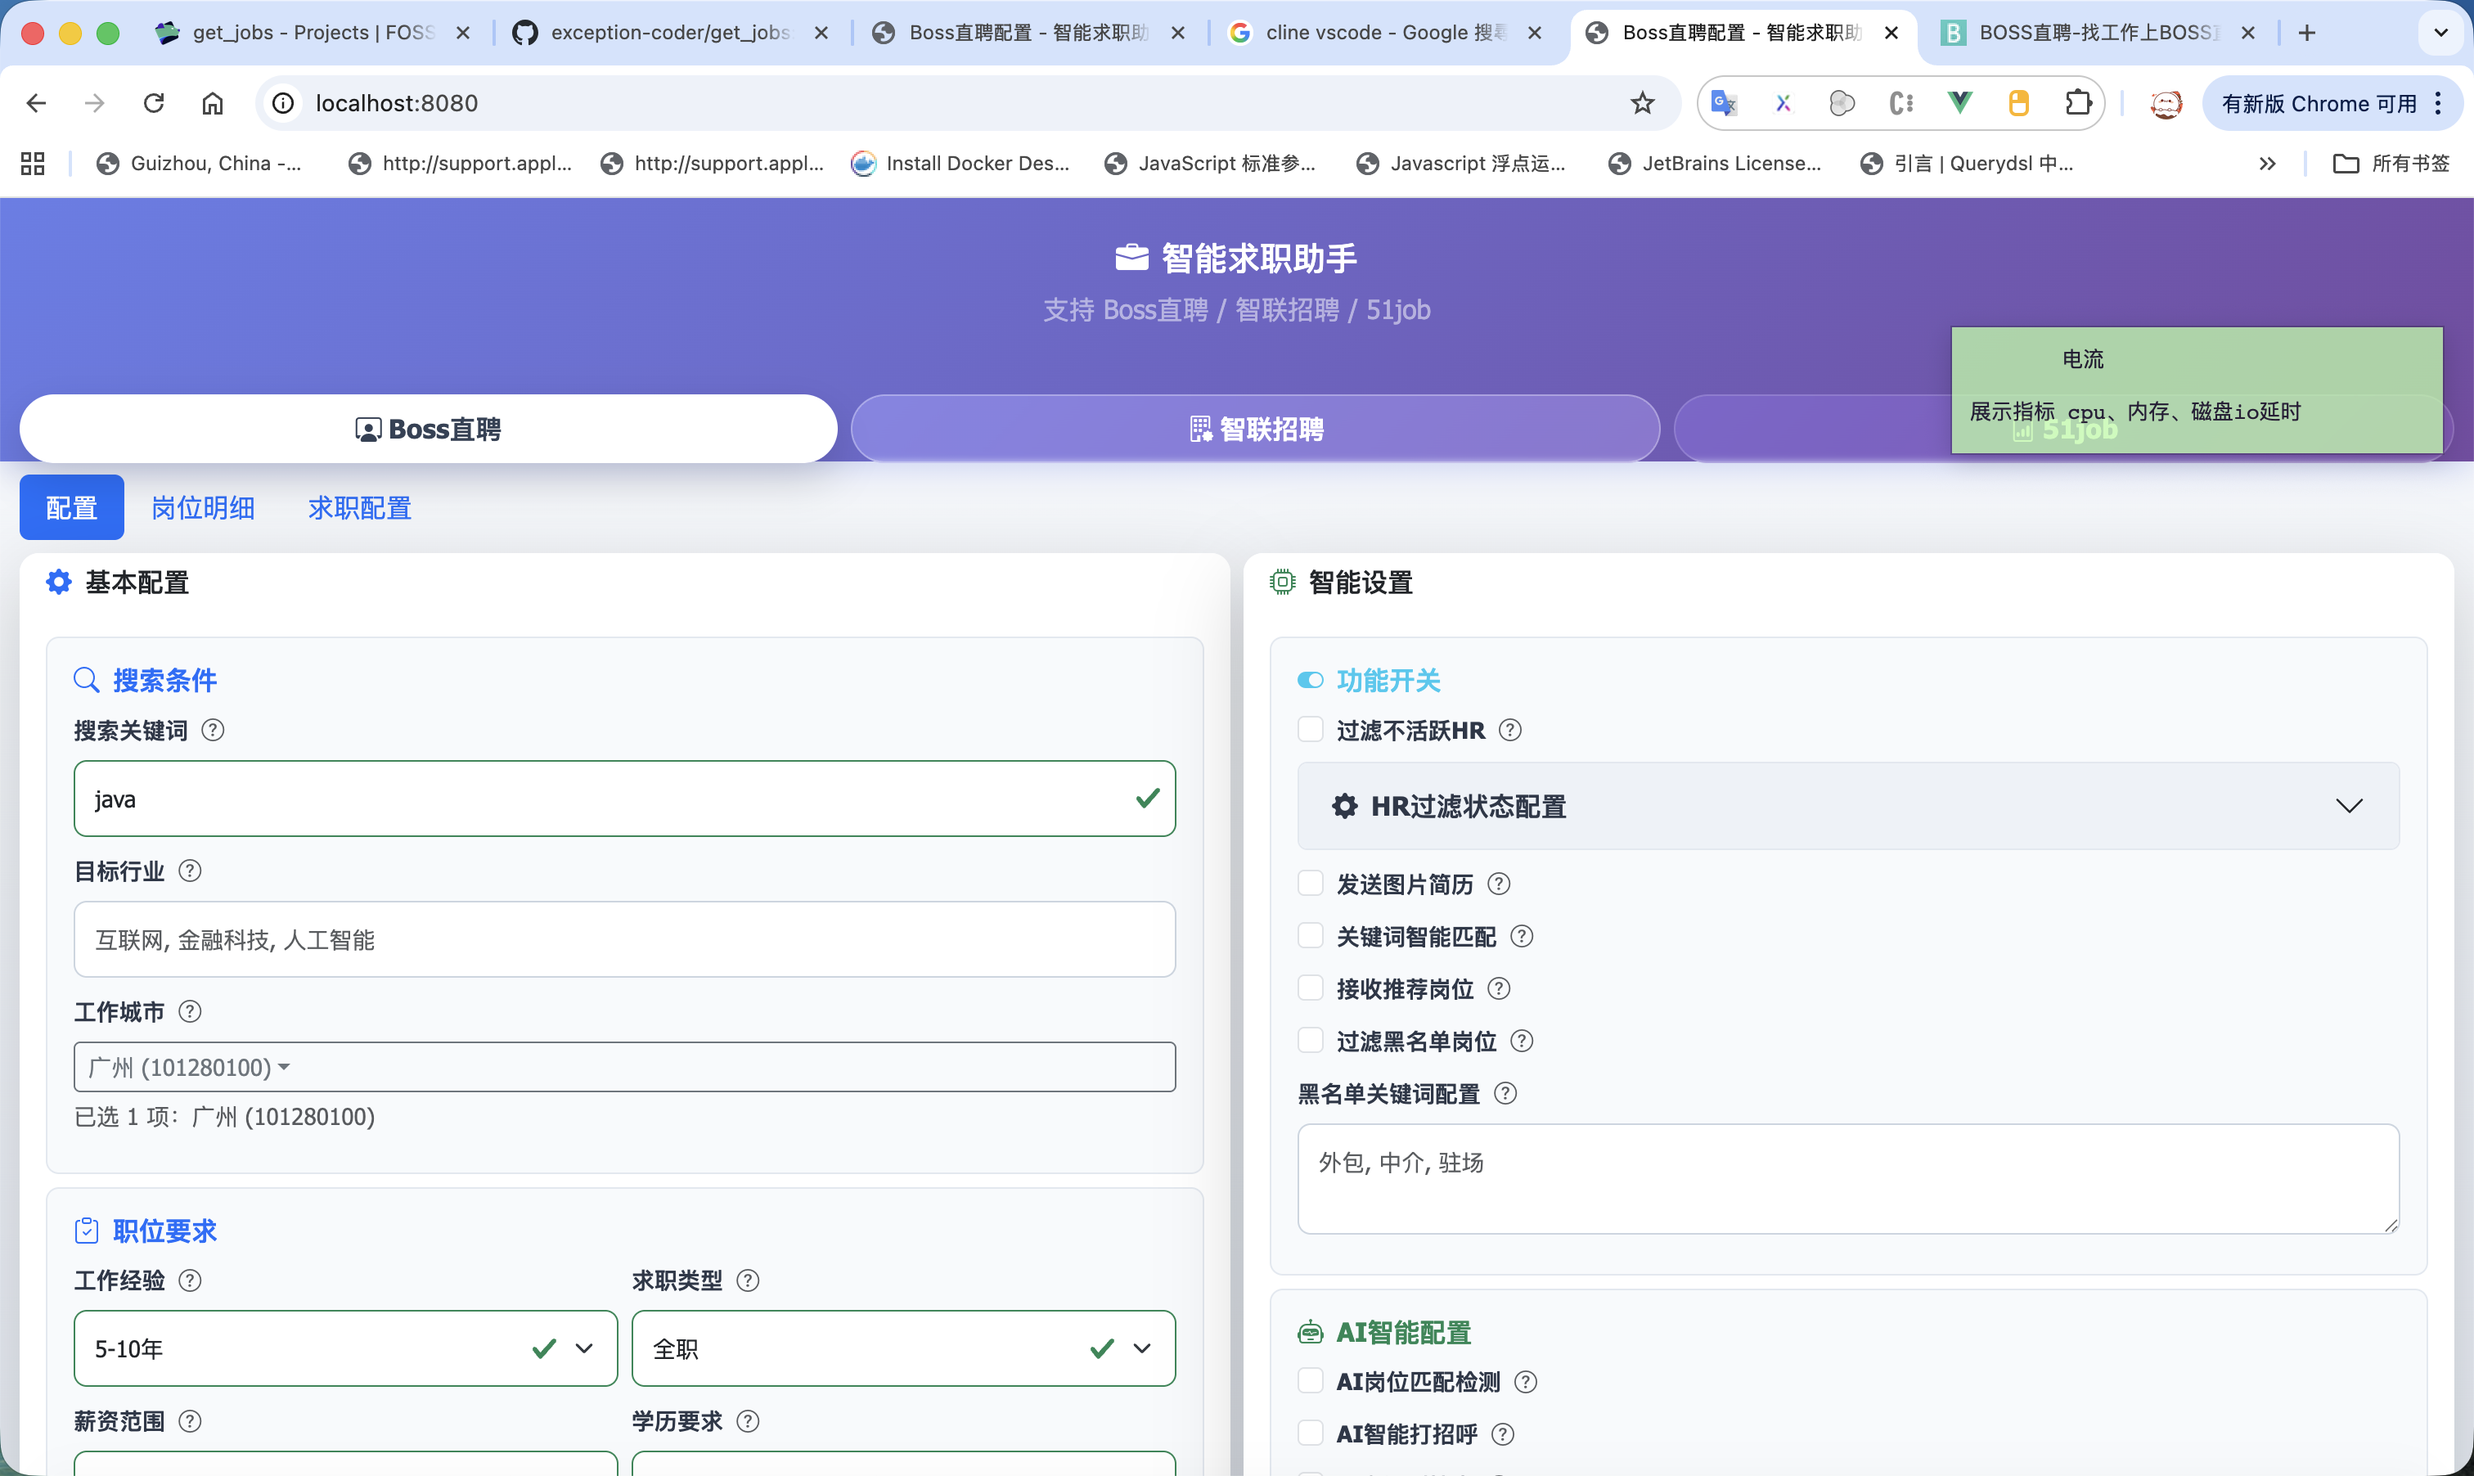
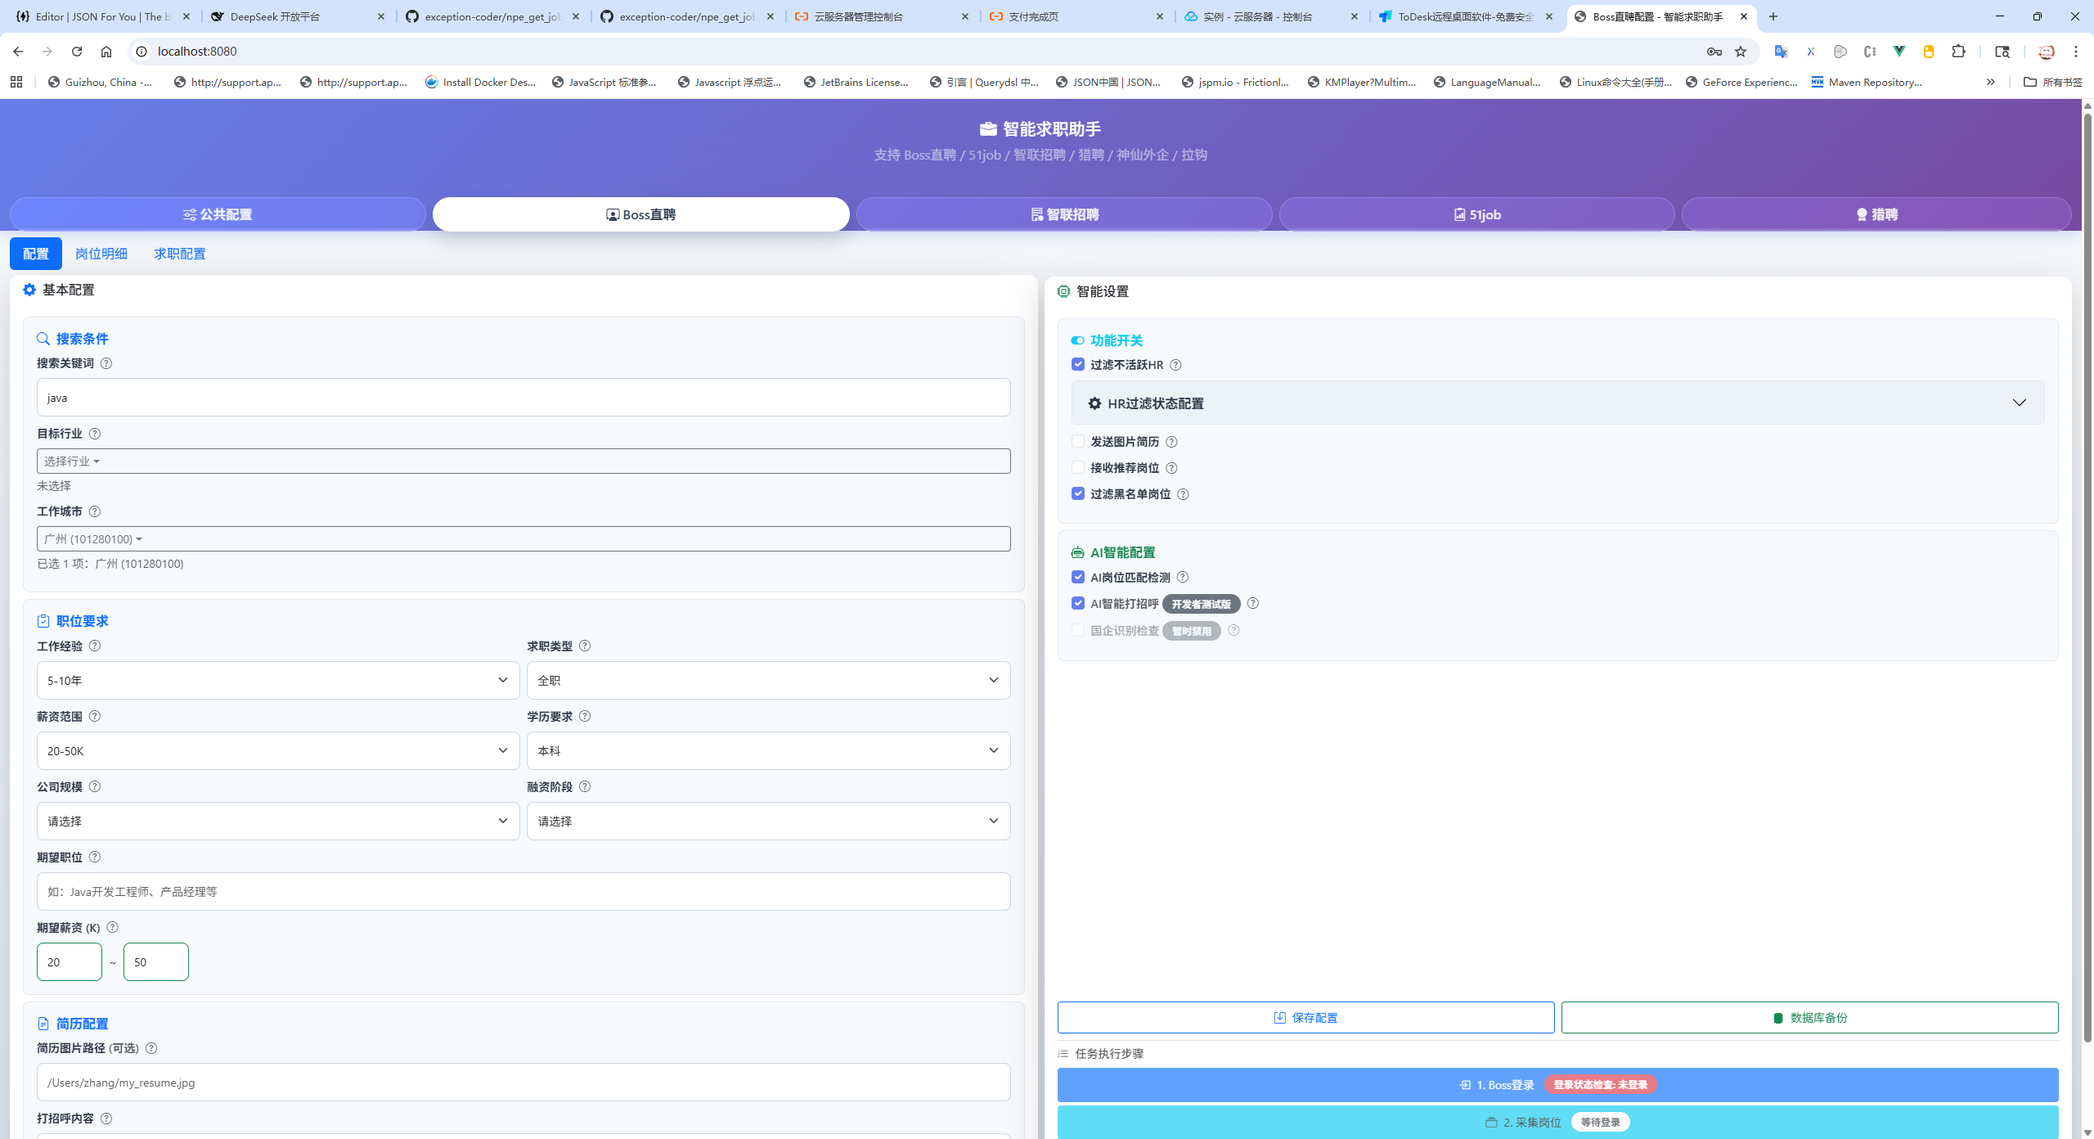
feat: initial commit

diff --git a/README.md b/README.md
@@ -1,19 +1,13 @@
 ## 运行界面
-![image](src/main/resources/images/img.png)
-![image](src/main/resources/images/img2.png)
+### 公共配置
+![img_2.png](img_2.png)
+### Boss直聘
+![img.png](img.png)
+### 猎聘
+![img_1.png](img_1.png)
 
 ## 运行准备
 ### jdk21
-
-### 补全`application-gpt.yml`配置
-api-key: ${OPENAI_API_KEY} -> api-key: ${OPENAI_API_KEY:xxx}
-不用AI功能默认值随便填一个xxx，否则填自己申请的key
-```yaml
-spring:
-  ai:
-    openai:
-      api-key: ${OPENAI_API_KEY:xxx}
-```
 
 ## 运行
 `getjobs.GetJobsApplication` 直接运行main函数
